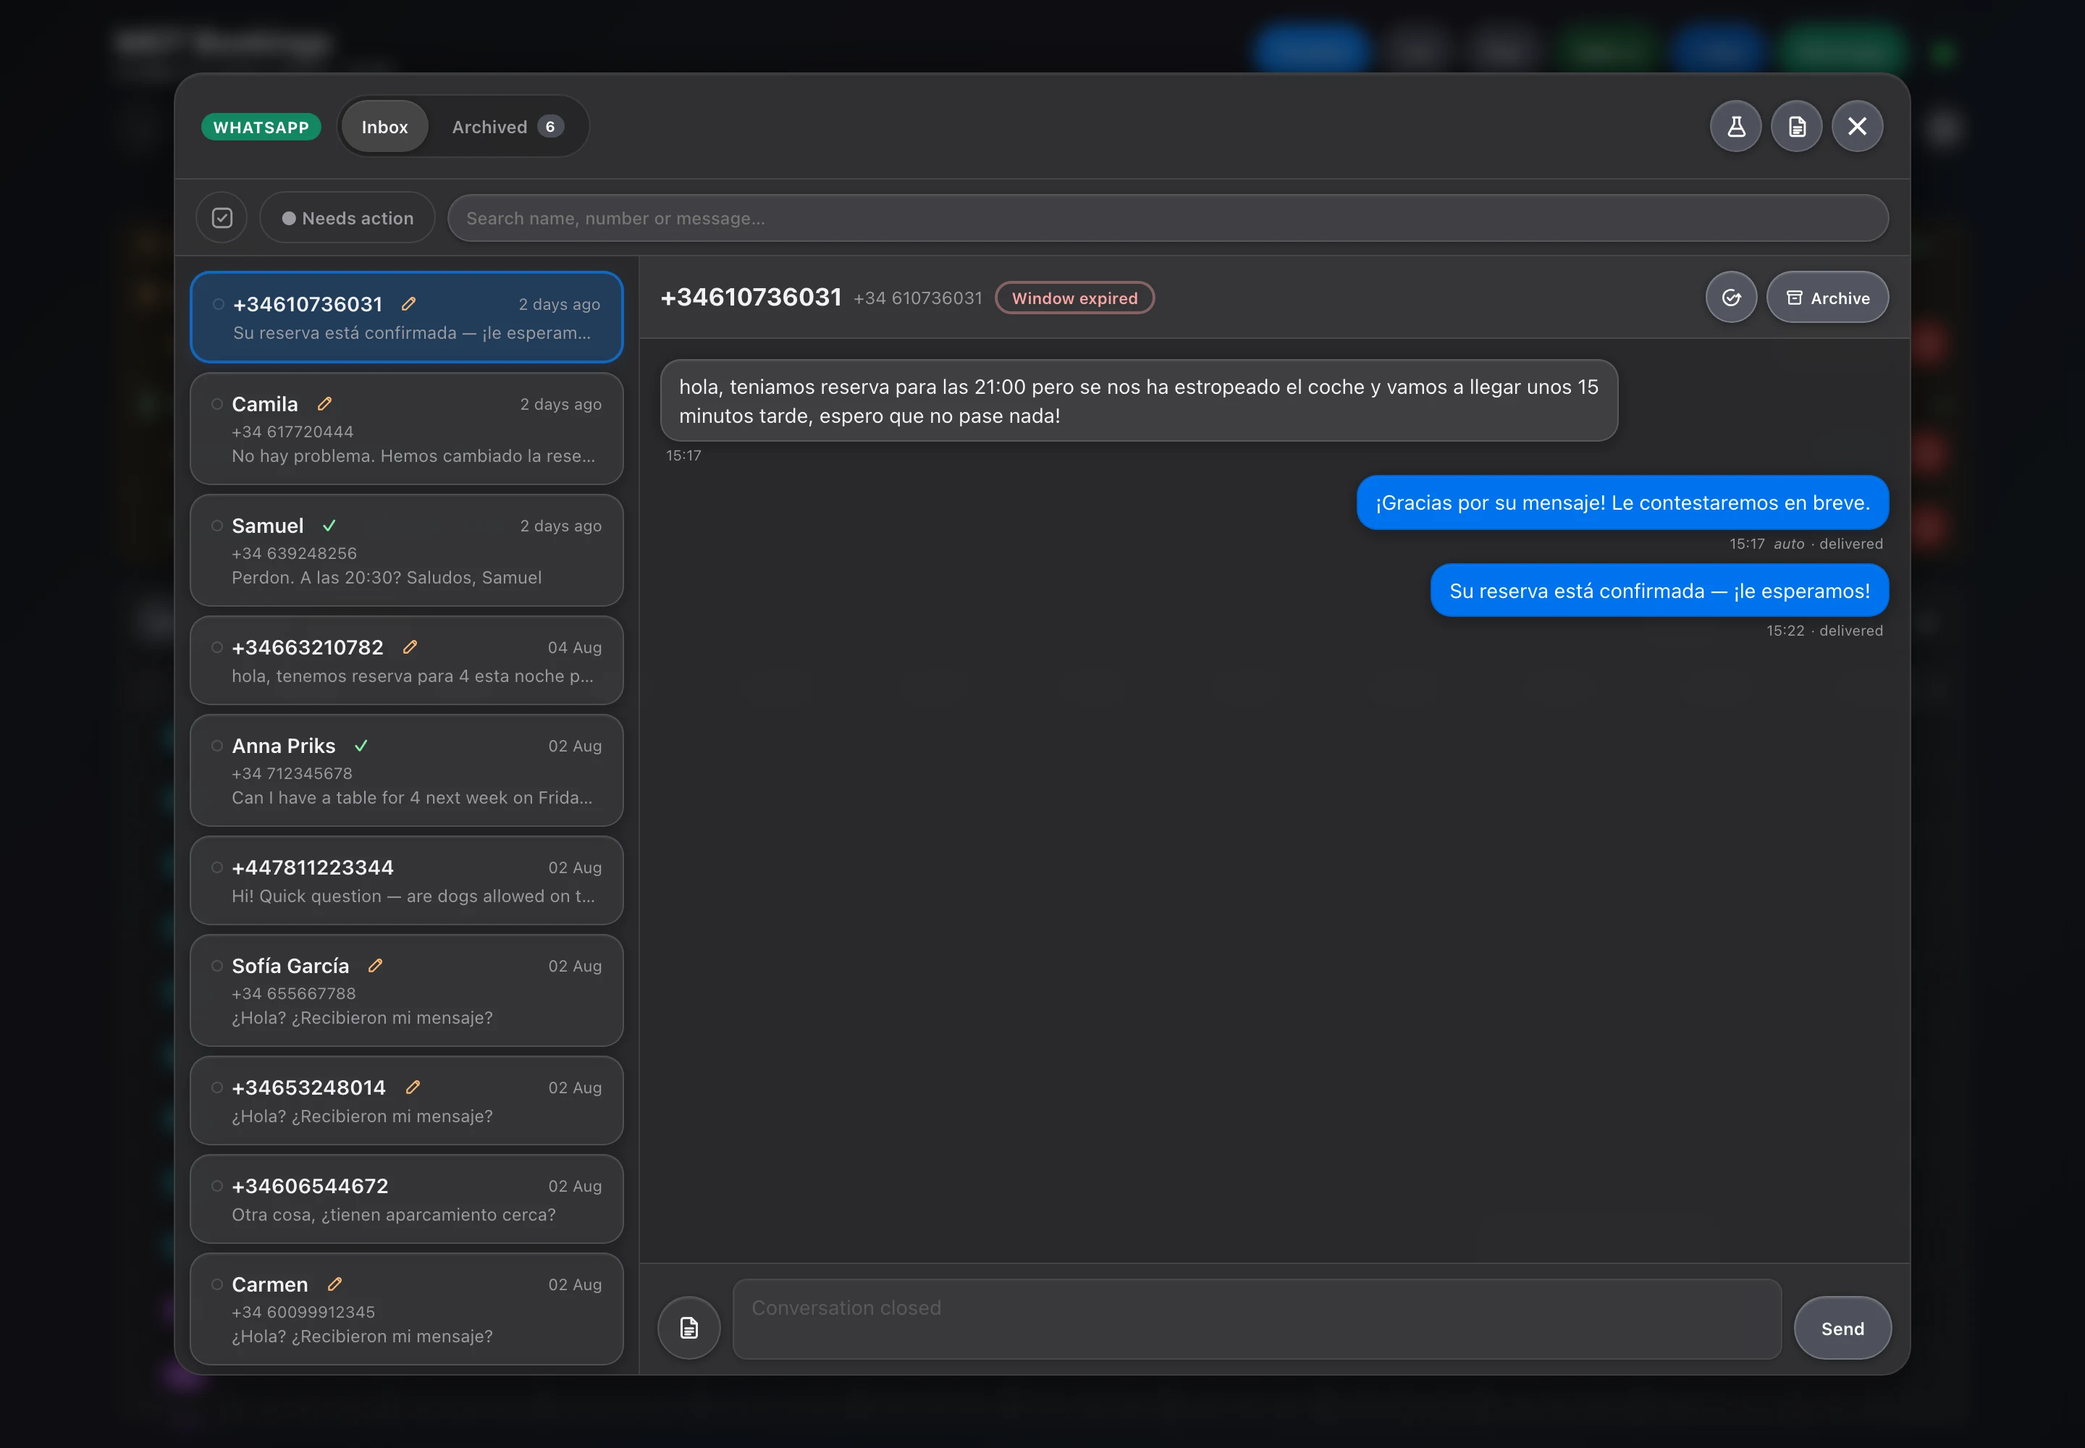
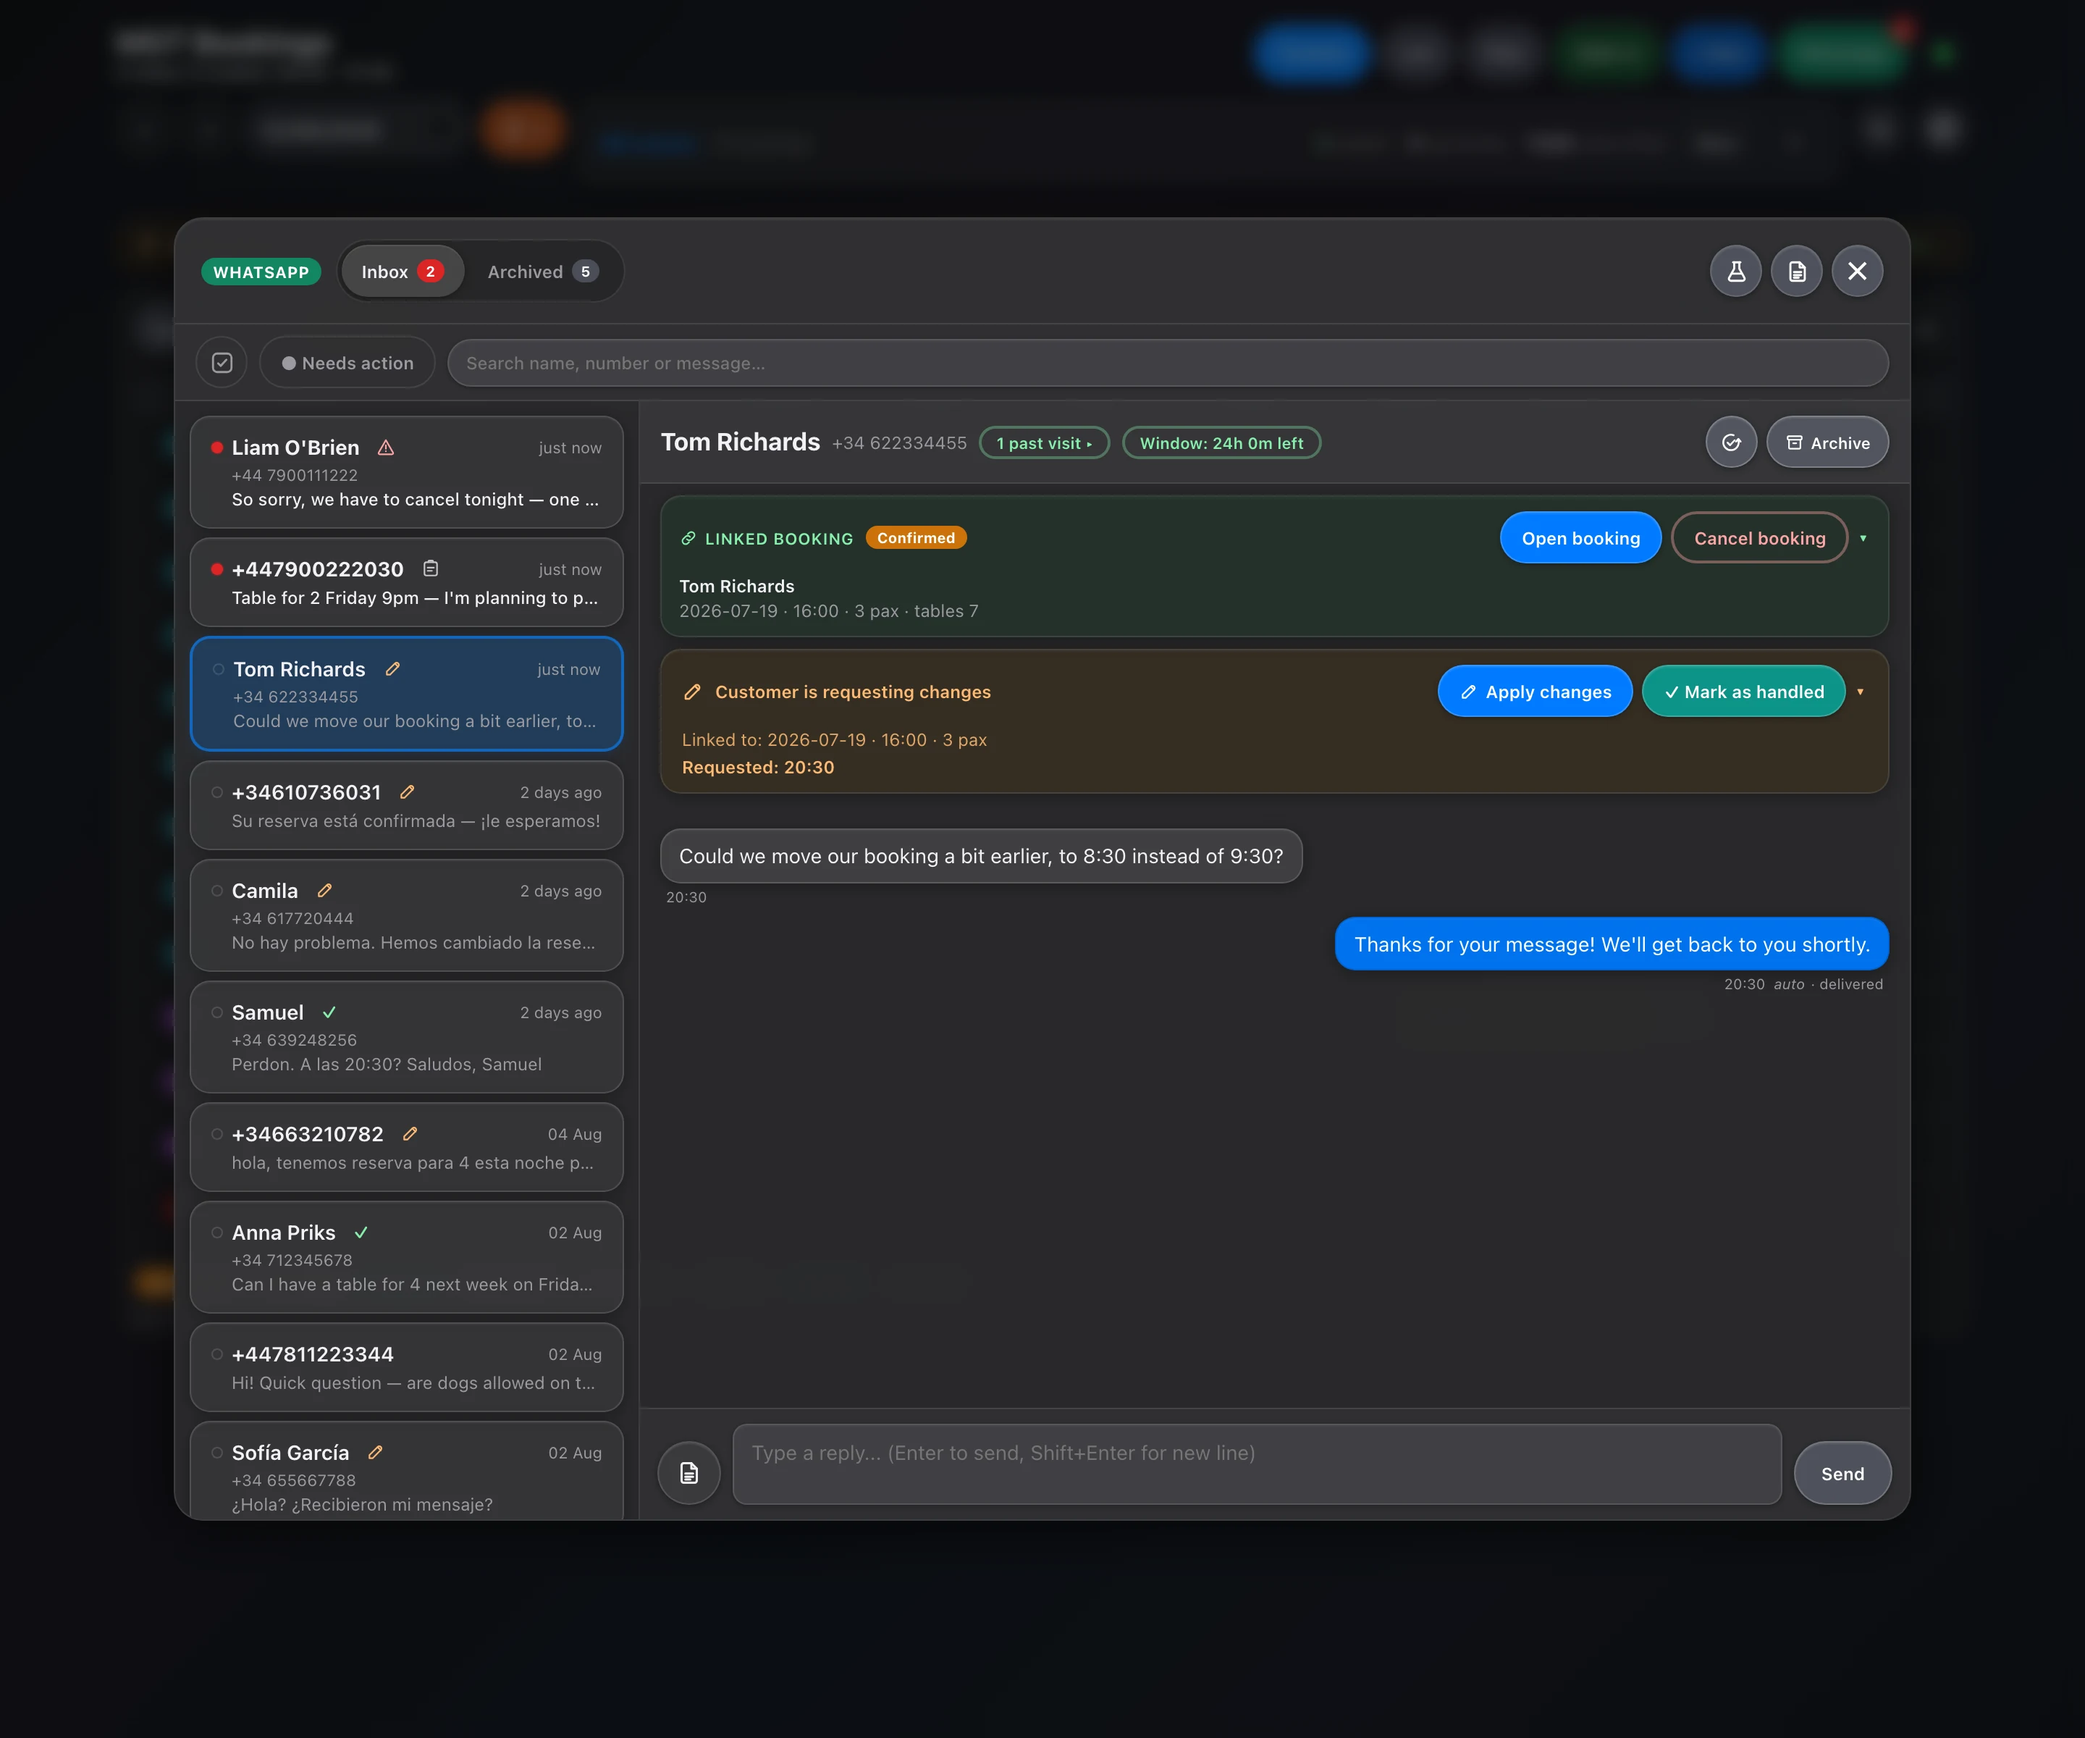
Re-shoot WhatsApp inbox to show more features in one frame
The gallery's single WhatsApp slide now packs in the module's core
surfaces at once: a Regular customer's linked booking (confirmed, with
both Open booking and Cancel booking actions), the LLM-parsed
change-request banner with an Apply-changes action, the message thread,
and the inbox chrome (search, Needs action filter, Inbox/Archived tab
counts, varied per-conversation state icons in the list).

Restored the demo booking behind this shot from a stale "cancelled" state
to "confirmed" (sandbox DEV data, per standing permission to adjust it for
the best screenshot) so the linked-booking card renders both actions
instead of just one. Alt text updated to match the richer scene.

Changed region(s): [[0.0625, 0.031, 0.9375, 0.961], [0.625, 0.527, 0.9062, 0.558], [0.9062, 0.0, 0.9375, 0.031]]

diff --git a/index.html b/index.html
@@ -426,10 +426,10 @@
                       data-light="assets/bk-whatsapp-light.webp"
                       data-dark="assets/bk-whatsapp-dark.webp"
                       data-label="WhatsApp inbox · LLM-parsed booking intake (in progress)"
-                      data-alt="WhatsApp inbox listing customer conversations, with one open showing an inbound message about running late and the automatic replies sent back"
+                      data-alt="WhatsApp inbox with a regular customer's conversation open: a confirmed linked booking with open and cancel actions, an LLM-parsed change request banner with an apply-changes action, and the message thread"
                       aria-label="WhatsApp inbox · LLM-parsed booking intake (in progress)">
-                      <img class="light-only" src="assets/bk-whatsapp-light.webp" alt="" width="1440" height="1000" loading="lazy" />
-                      <img class="dark-only" src="assets/bk-whatsapp-dark.webp" alt="" width="1440" height="1000" loading="lazy" />
+                      <img class="light-only" src="assets/bk-whatsapp-light.webp" alt="" width="1440" height="1200" loading="lazy" />
+                      <img class="dark-only" src="assets/bk-whatsapp-dark.webp" alt="" width="1440" height="1200" loading="lazy" />
                     </button>
                     <button type="button" class="thumb"
                       data-light="assets/bk-simulator-light.webp"
